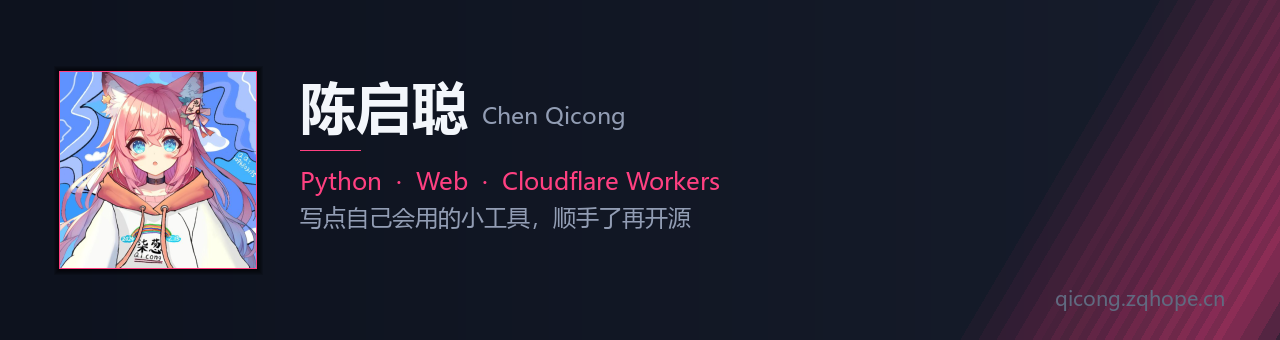
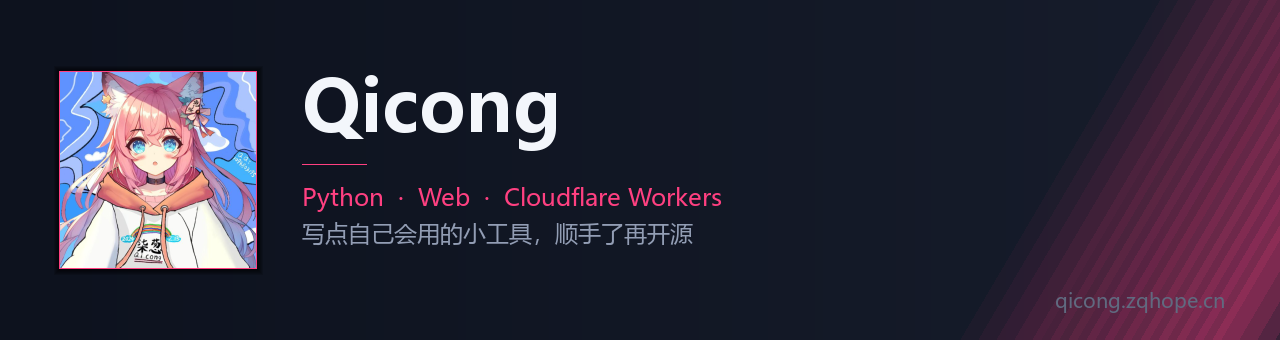
横幅主标题改为 Qicong

Changed region(s): [[0.2188, 0.5, 0.5625, 0.7353], [0.2188, 0.2059, 0.5, 0.4412], [0.8125, 0.8529, 0.9688, 0.9118]]

diff --git a/README.md b/README.md
@@ -1,5 +1,5 @@
 <div align="center">
-  <img src="./assets/banner.png" alt="陈启聪 — 柒葱" width="100%" />
+  <img src="./assets/banner.png" alt="Qicong" width="100%" />
 </div>
 
 <div align="center">
